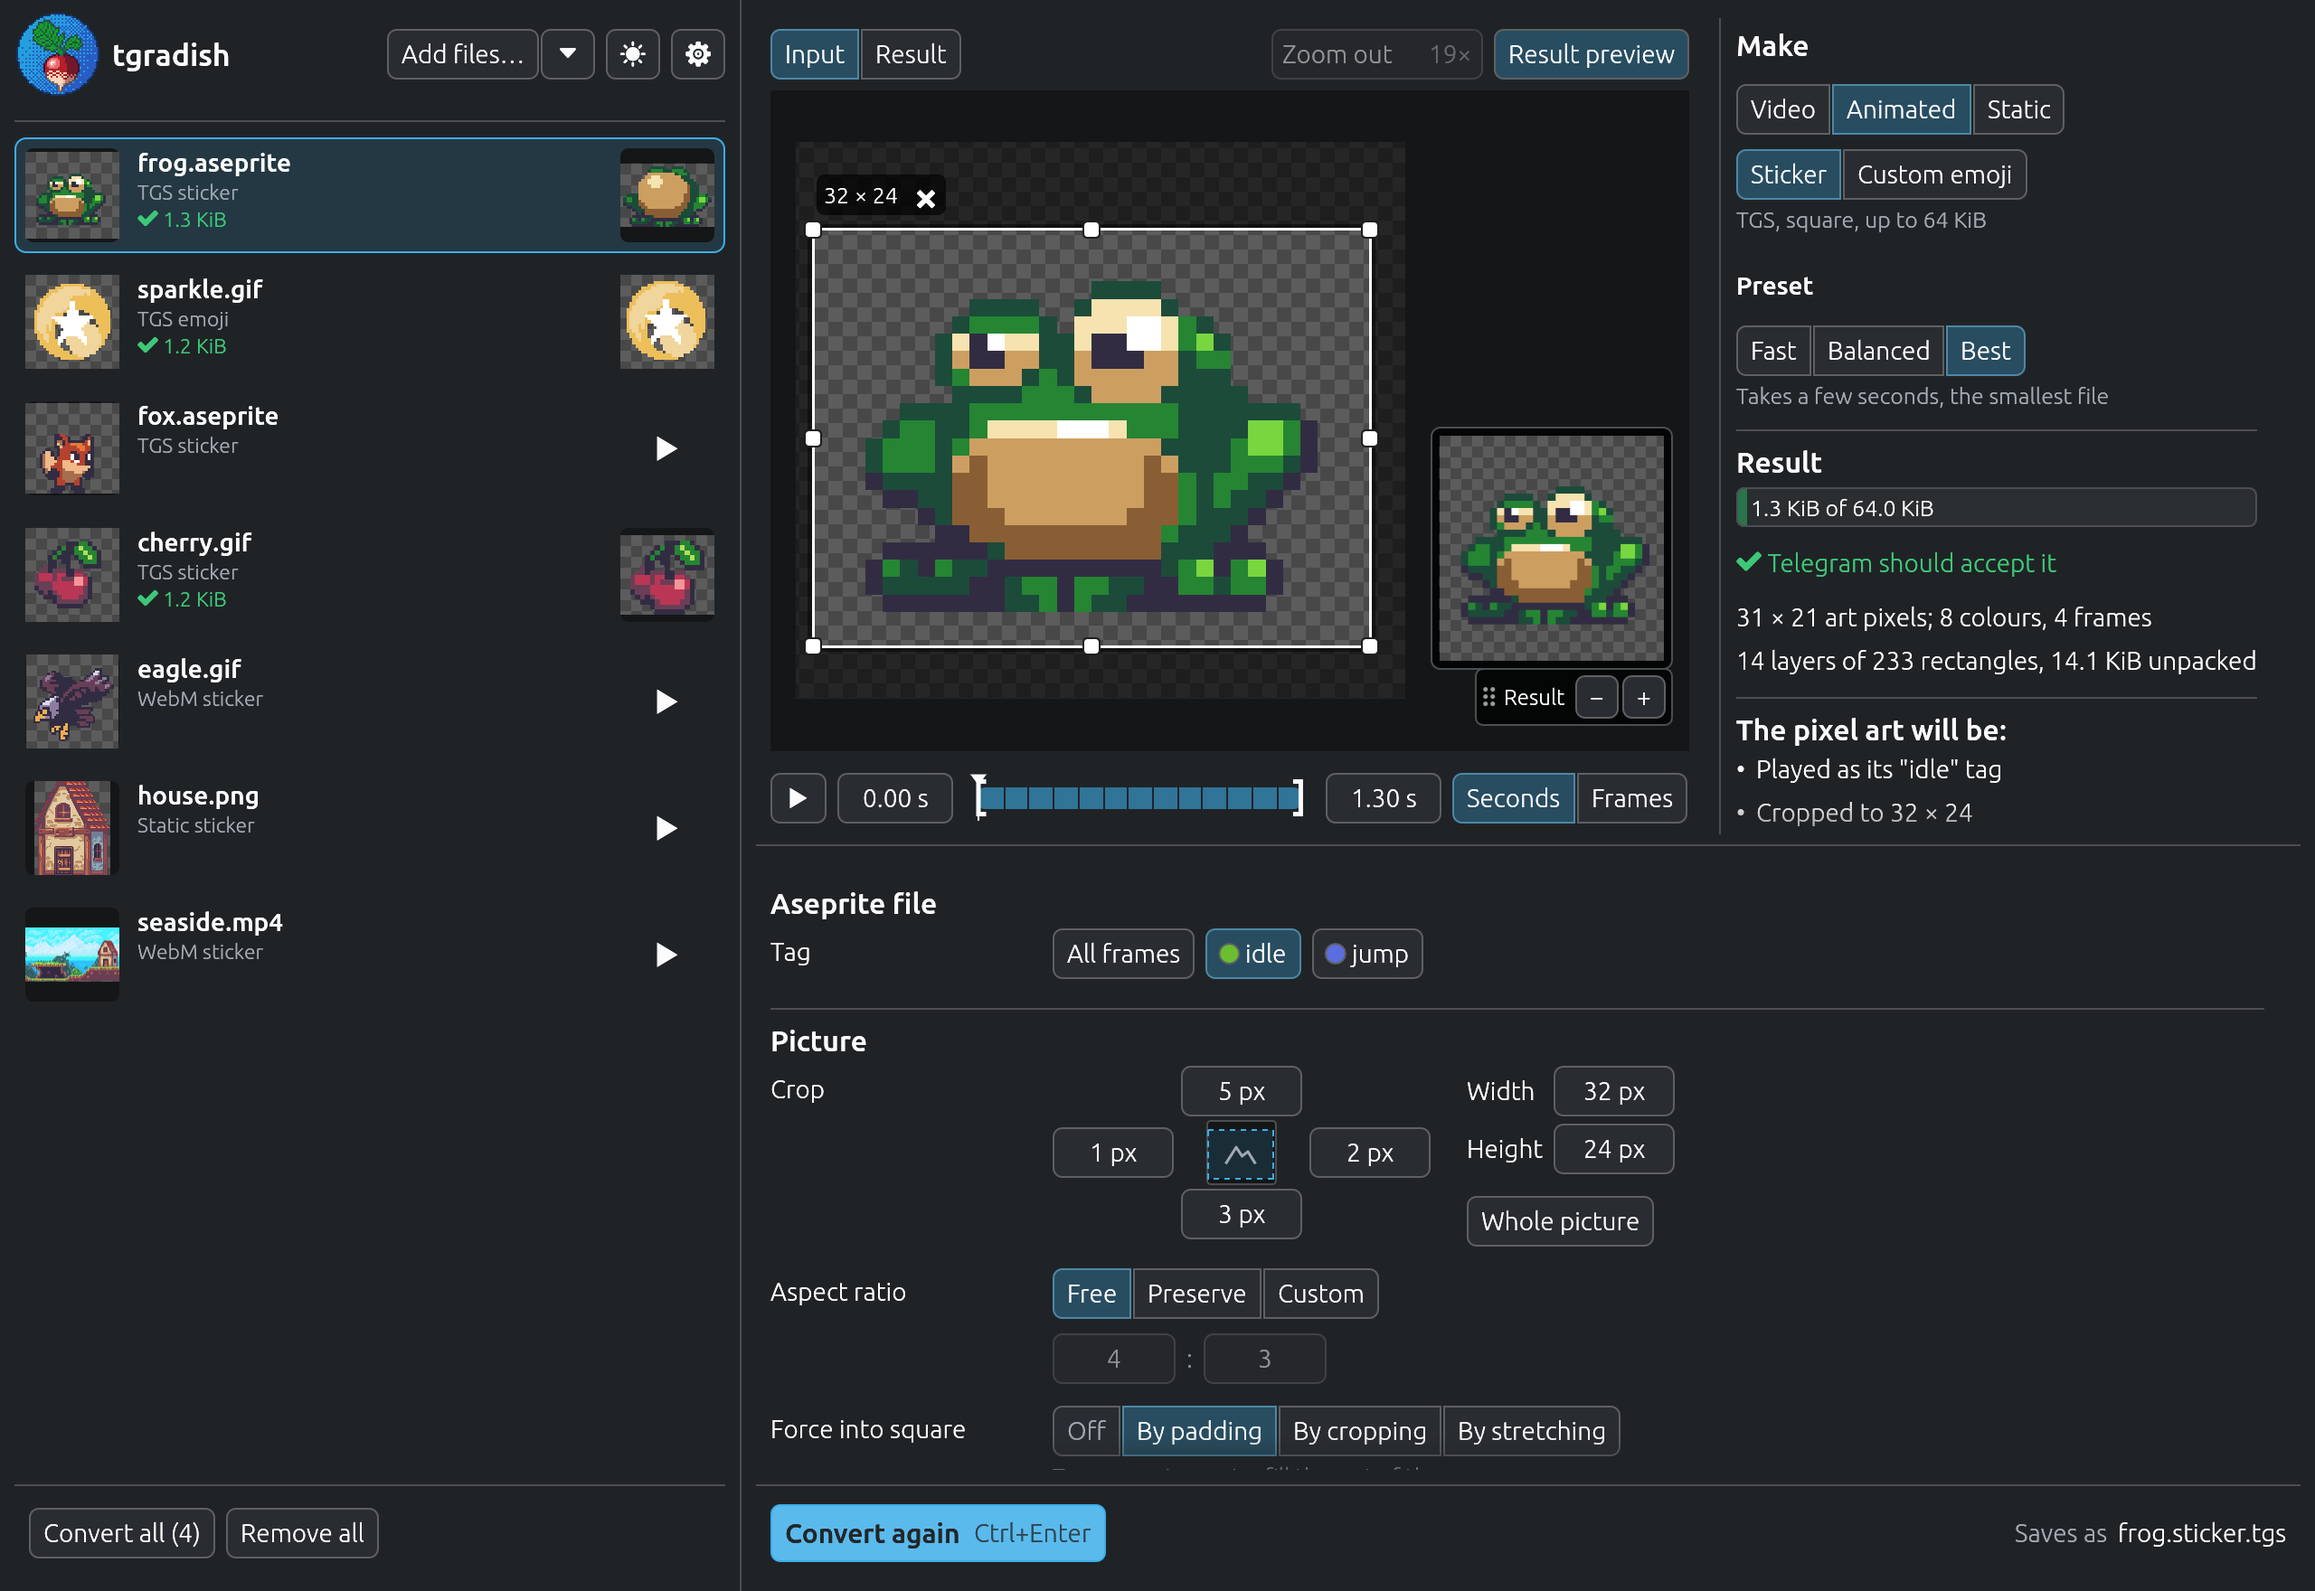
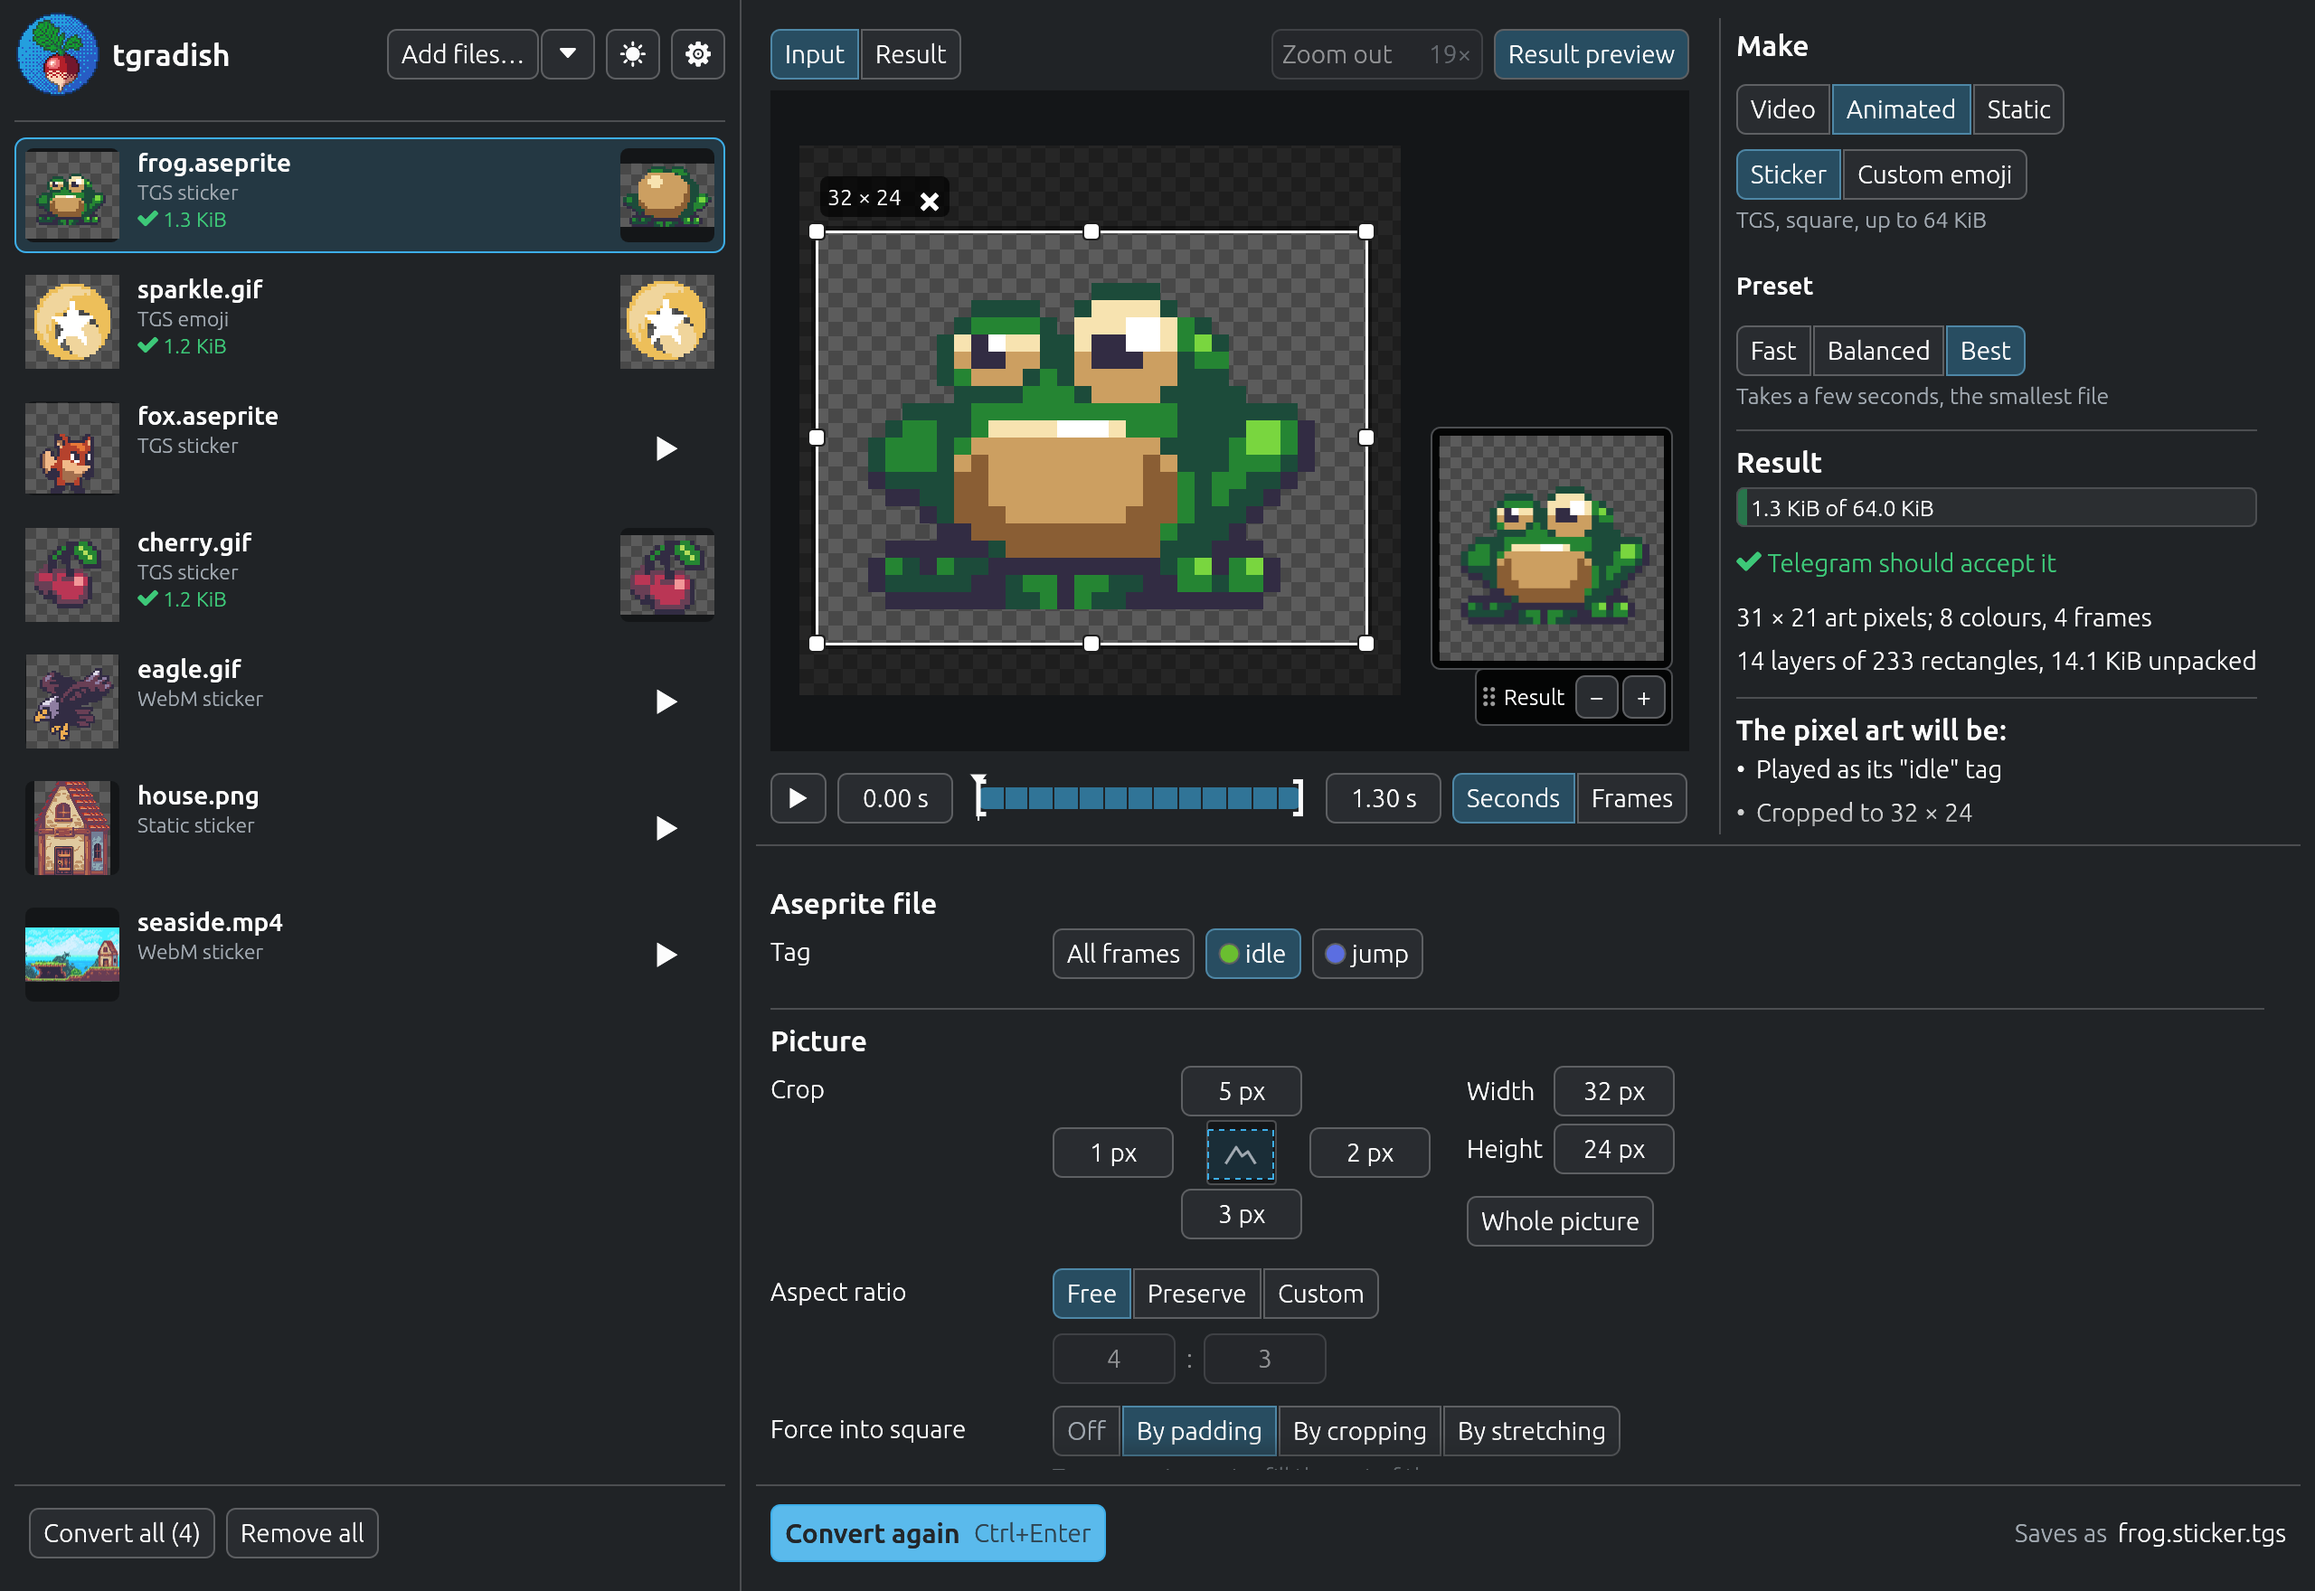
Fit pixel art on the preview a whole number of the screen's pixels to each of its own, from two up, as its small picture of the result does, so that nearest neighbour draws its columns and rows all as wide rather than some a pixel wider; the README's picture made again

diff --git a/crates/gui/src/canvas.rs b/crates/gui/src/canvas.rs
@@ -200,17 +200,24 @@ const CHECKER: f32 = 8.0;
 /// takes.
 pub(crate) fn layout(rect: Rect, size: (u32, u32), zoom: &Zoom) -> (Rect, f32) {
     let (width, height) = (size.0.max(1) as f32, size.1.max(1) as f32);
-    let scale = fit(rect, size) * zoom.level;
+    let scale = fit(rect, size, zoom.grid) * zoom.level;
     let shown = vec2(width, height) * scale;
     let min = rect.center() - vec2(zoom.centre.x * shown.x, zoom.centre.y * shown.y);
     (Rect::from_min_size(min, shown), scale)
 }
 
 /// How many points an input pixel takes where a `size` picture fits
-/// `rect`.
-fn fit(rect: Rect, size: (u32, u32)) -> f32 {
+/// `rect`: for pixel art, whose pixels take `grid` of the screen's for
+/// each point an input pixel takes, a whole number of the screen's pixels
+/// to each of its own from two up, as nearest neighbour draws them, so
+/// that they are all as wide, rather than some a screen pixel wider.
+fn fit(rect: Rect, size: (u32, u32), grid: Option<f32>) -> f32 {
     let (width, height) = (size.0.max(1) as f32, size.1.max(1) as f32);
     let fit = ((rect.width() - 2.0 * MARGIN) / width).min((rect.height() - 2.0 * MARGIN) / height);
+    let fit = match grid {
+        Some(grid) if fit * grid >= 2.0 => (fit * grid).floor() / grid,
+        _ => fit,
+    };
     fit.max(1e-3)
 }
 
@@ -231,15 +238,19 @@ pub(crate) fn show(
     cropping: Option<Cropping>,
 ) {
     // a part of the space the caller took: taking it again would move
-    // what comes next
-    // not a stop of the keyboard's focus itself: the crop on it is
+    // what comes next. Not a stop of the keyboard's focus itself: the crop
+    // on it is
     let response = ui.interact(rect, ui.id().with("canvas"), Sense::CLICK | Sense::DRAG);
     let painter = ui.painter_at(rect);
     painter.rect_filled(rect, 0.0, theme::stage(ui.visuals().dark_mode));
 
     let side = picture.size.0.max(picture.size.1);
     let canvas = if picture.square { (side, side) } else { picture.size };
-    hold(zoom, (rect, fit_in), canvas, ui.ctx().pixels_per_point());
+    // pixel art's pixels to the screen's, for each input pixel's point
+    let ppp = ui.ctx().pixels_per_point();
+    let art = picture.clip.width as f32 / picture.size.0.max(1) as f32;
+    zoom.grid = picture.clip.pixelated.then_some(ppp / art);
+    hold(zoom, (rect, fit_in), canvas, ppp);
     zoom_and_pan(ui, &response, fit_in, canvas, zoom);
     let (whole, scale) = layout(fit_in, canvas, zoom);
     zoom.scale = Some(scale * ui.ctx().pixels_per_point());
@@ -732,7 +743,7 @@ fn zoom_and_pan(
     size: (u32, u32),
     zoom: &mut Zoom,
 ) {
-    let most = most_level(fit(rect, size) * ui.ctx().pixels_per_point());
+    let most = most_level(fit(rect, size, zoom.grid) * ui.ctx().pixels_per_point());
     // as far as it goes in the room there is now
     zoom.level = zoom.level.min(most);
     if let Some(pointer) = response.hover_pos() {
@@ -801,7 +812,7 @@ fn hold(zoom: &mut Zoom, (view, fit_in): (Rect, Rect), size: (u32, u32), ppp: f3
         && zoom.level > 1.0
     {
         let (shown, scale) = layout(before, size, zoom);
-        let fit = fit(fit_in, size);
+        let fit = fit(fit_in, size, zoom.grid);
         zoom.level = (scale / fit).clamp(1.0, most_level(fit * ppp));
         let (now, _) = layout(fit_in, size, zoom);
         zoom.centre = (fit_in.center() - shown.min) / now.size();
@@ -1163,7 +1174,7 @@ mod tests {
         );
         crate::widgets::test_fonts(&harness);
         harness.run_steps(2);
-        let (shown, scale) = layout(harness.state().4, (64, 48), &Zoom::default());
+        let (shown, scale) = layout(harness.state().4, (64, 48), &harness.state().1);
         let (left, top) = (shown.left() + 8.0 * scale, shown.top());
         let cross = harness.get_by_label(&crate::l10n::fl!("whole-picture")).rect();
         // clear of where the pointer takes its top edge and corner
@@ -1253,7 +1264,7 @@ mod tests {
             );
         crate::widgets::test_fonts(&harness);
         harness.run_steps(2);
-        let (shown, scale) = layout(harness.state().4, size, &Zoom::default());
+        let (shown, scale) = layout(harness.state().4, size, &harness.state().1);
         (harness, scale, shown.min)
     }
 
@@ -1519,6 +1530,25 @@ mod tests {
         assert_eq!(most_level(30.0), 4.0);
         // never short of where it fits
         assert_eq!(most_level(20_000.0), 1.0);
+    }
+
+    #[test]
+    fn fits_pixel_art_a_whole_number_of_the_screens_pixels_to_its_own() {
+        let stage = Rect::from_min_size(pos2(0.0, 0.0), vec2(600.0, 400.0));
+        // 7.75 points a pixel where it fits, as smooth pictures stay
+        assert_eq!(fit(stage, (64, 48), None), 7.75);
+        assert_eq!(fit(stage, (64, 48), Some(1.0)), 7.0);
+        // at a scale of 1.25, 9 of the screen's pixels, rather than 9.69
+        assert_eq!(fit(stage, (64, 48), Some(1.25)), 9.0 / 1.25);
+        // art of twice the input's pixels: 3 of the screen's pixels to
+        // each of its own, where 3.875 would fit
+        assert_eq!(fit(stage, (64, 48), Some(0.5)), 6.0);
+        // under two of the screen's pixels, as it fits
+        let small = Rect::from_min_size(pos2(0.0, 0.0), vec2(100.0, 100.0));
+        assert_eq!(fit(small, (64, 48), Some(1.0)), 72.0 / 64.0);
+        // as the preview shows it
+        let (harness, scale, _) = cropped(None);
+        assert_eq!((scale, harness.state().1.scale), (7.0, Some(7.0)));
     }
 
     #[test]

diff --git a/crates/gui/src/item.rs b/crates/gui/src/item.rs
@@ -327,11 +327,15 @@ pub(crate) struct Zoom {
     /// How many of the screen's pixels a pixel of the picture took, as it
     /// was last shown.
     pub(crate) scale: Option<f32>,
+    /// Of pixel art, how many of the screen's pixels its pixels take for
+    /// each point an input pixel takes, as it was last shown: where it
+    /// fits, they take a whole number of them.
+    pub(crate) grid: Option<f32>,
 }
 
 impl Default for Zoom {
     fn default() -> Zoom {
-        Zoom { level: 1.0, centre: egui::vec2(0.5, 0.5), anchor: None, scale: None }
+        Zoom { level: 1.0, centre: egui::vec2(0.5, 0.5), anchor: None, scale: None, grid: None }
     }
 }
 
